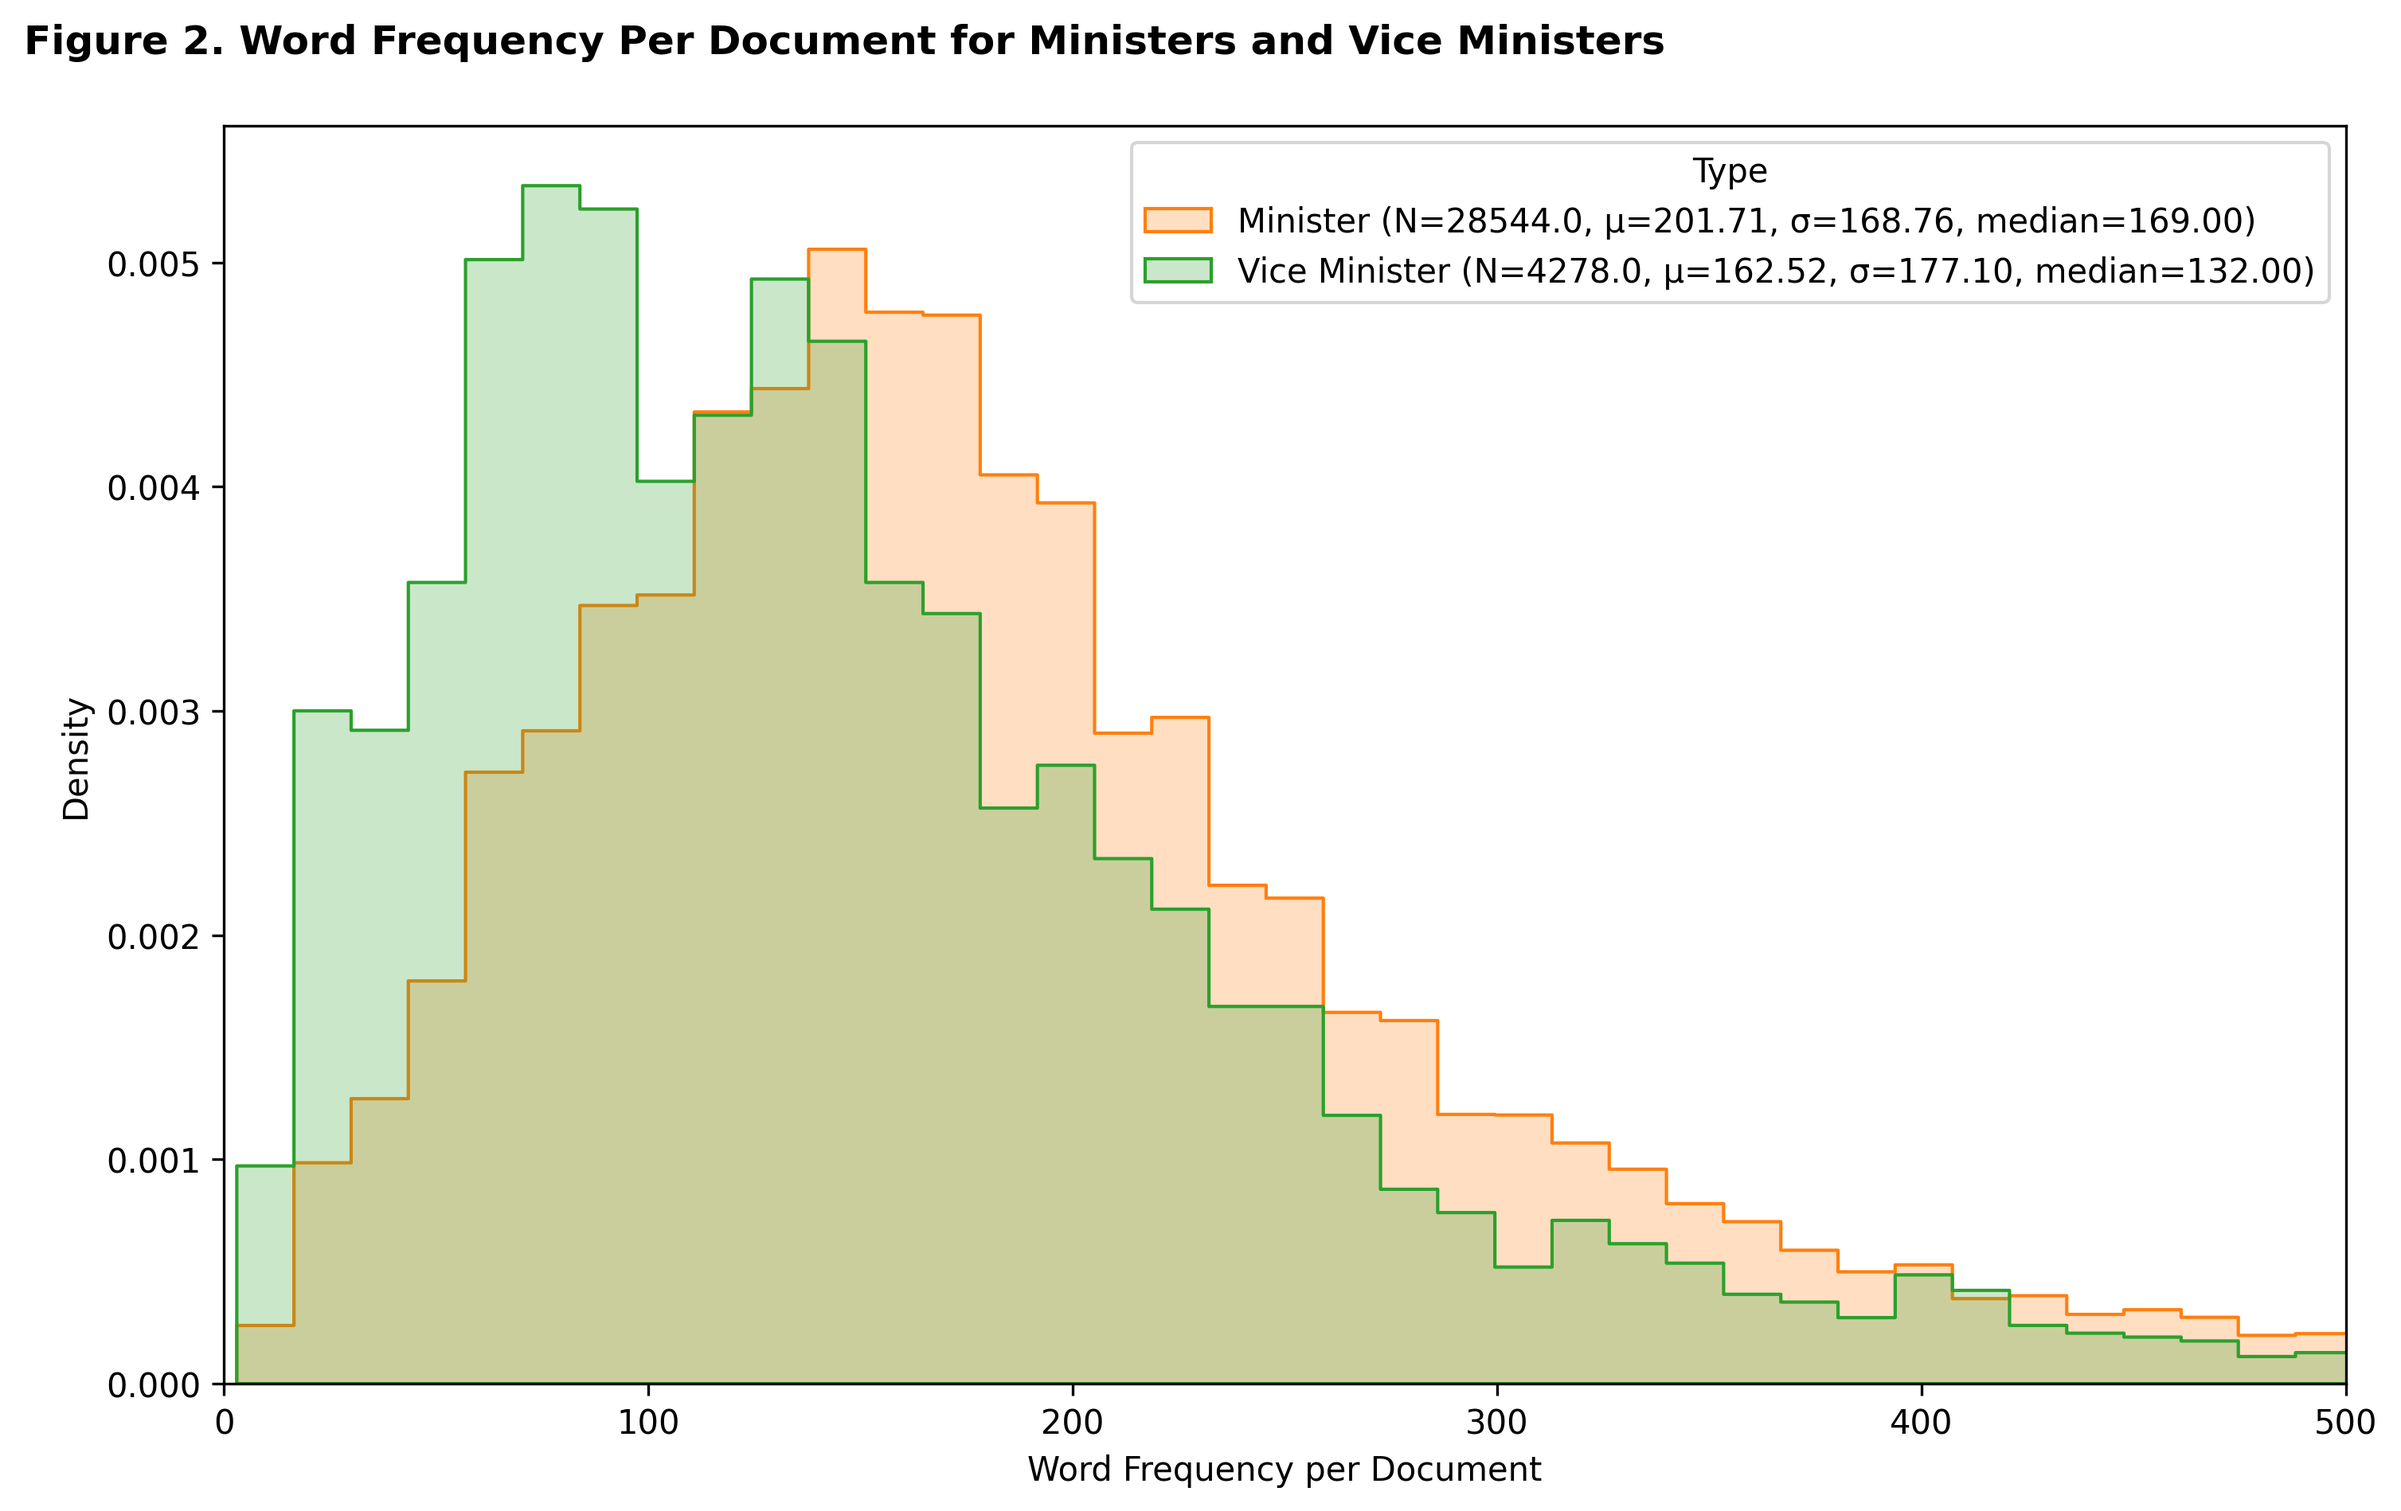
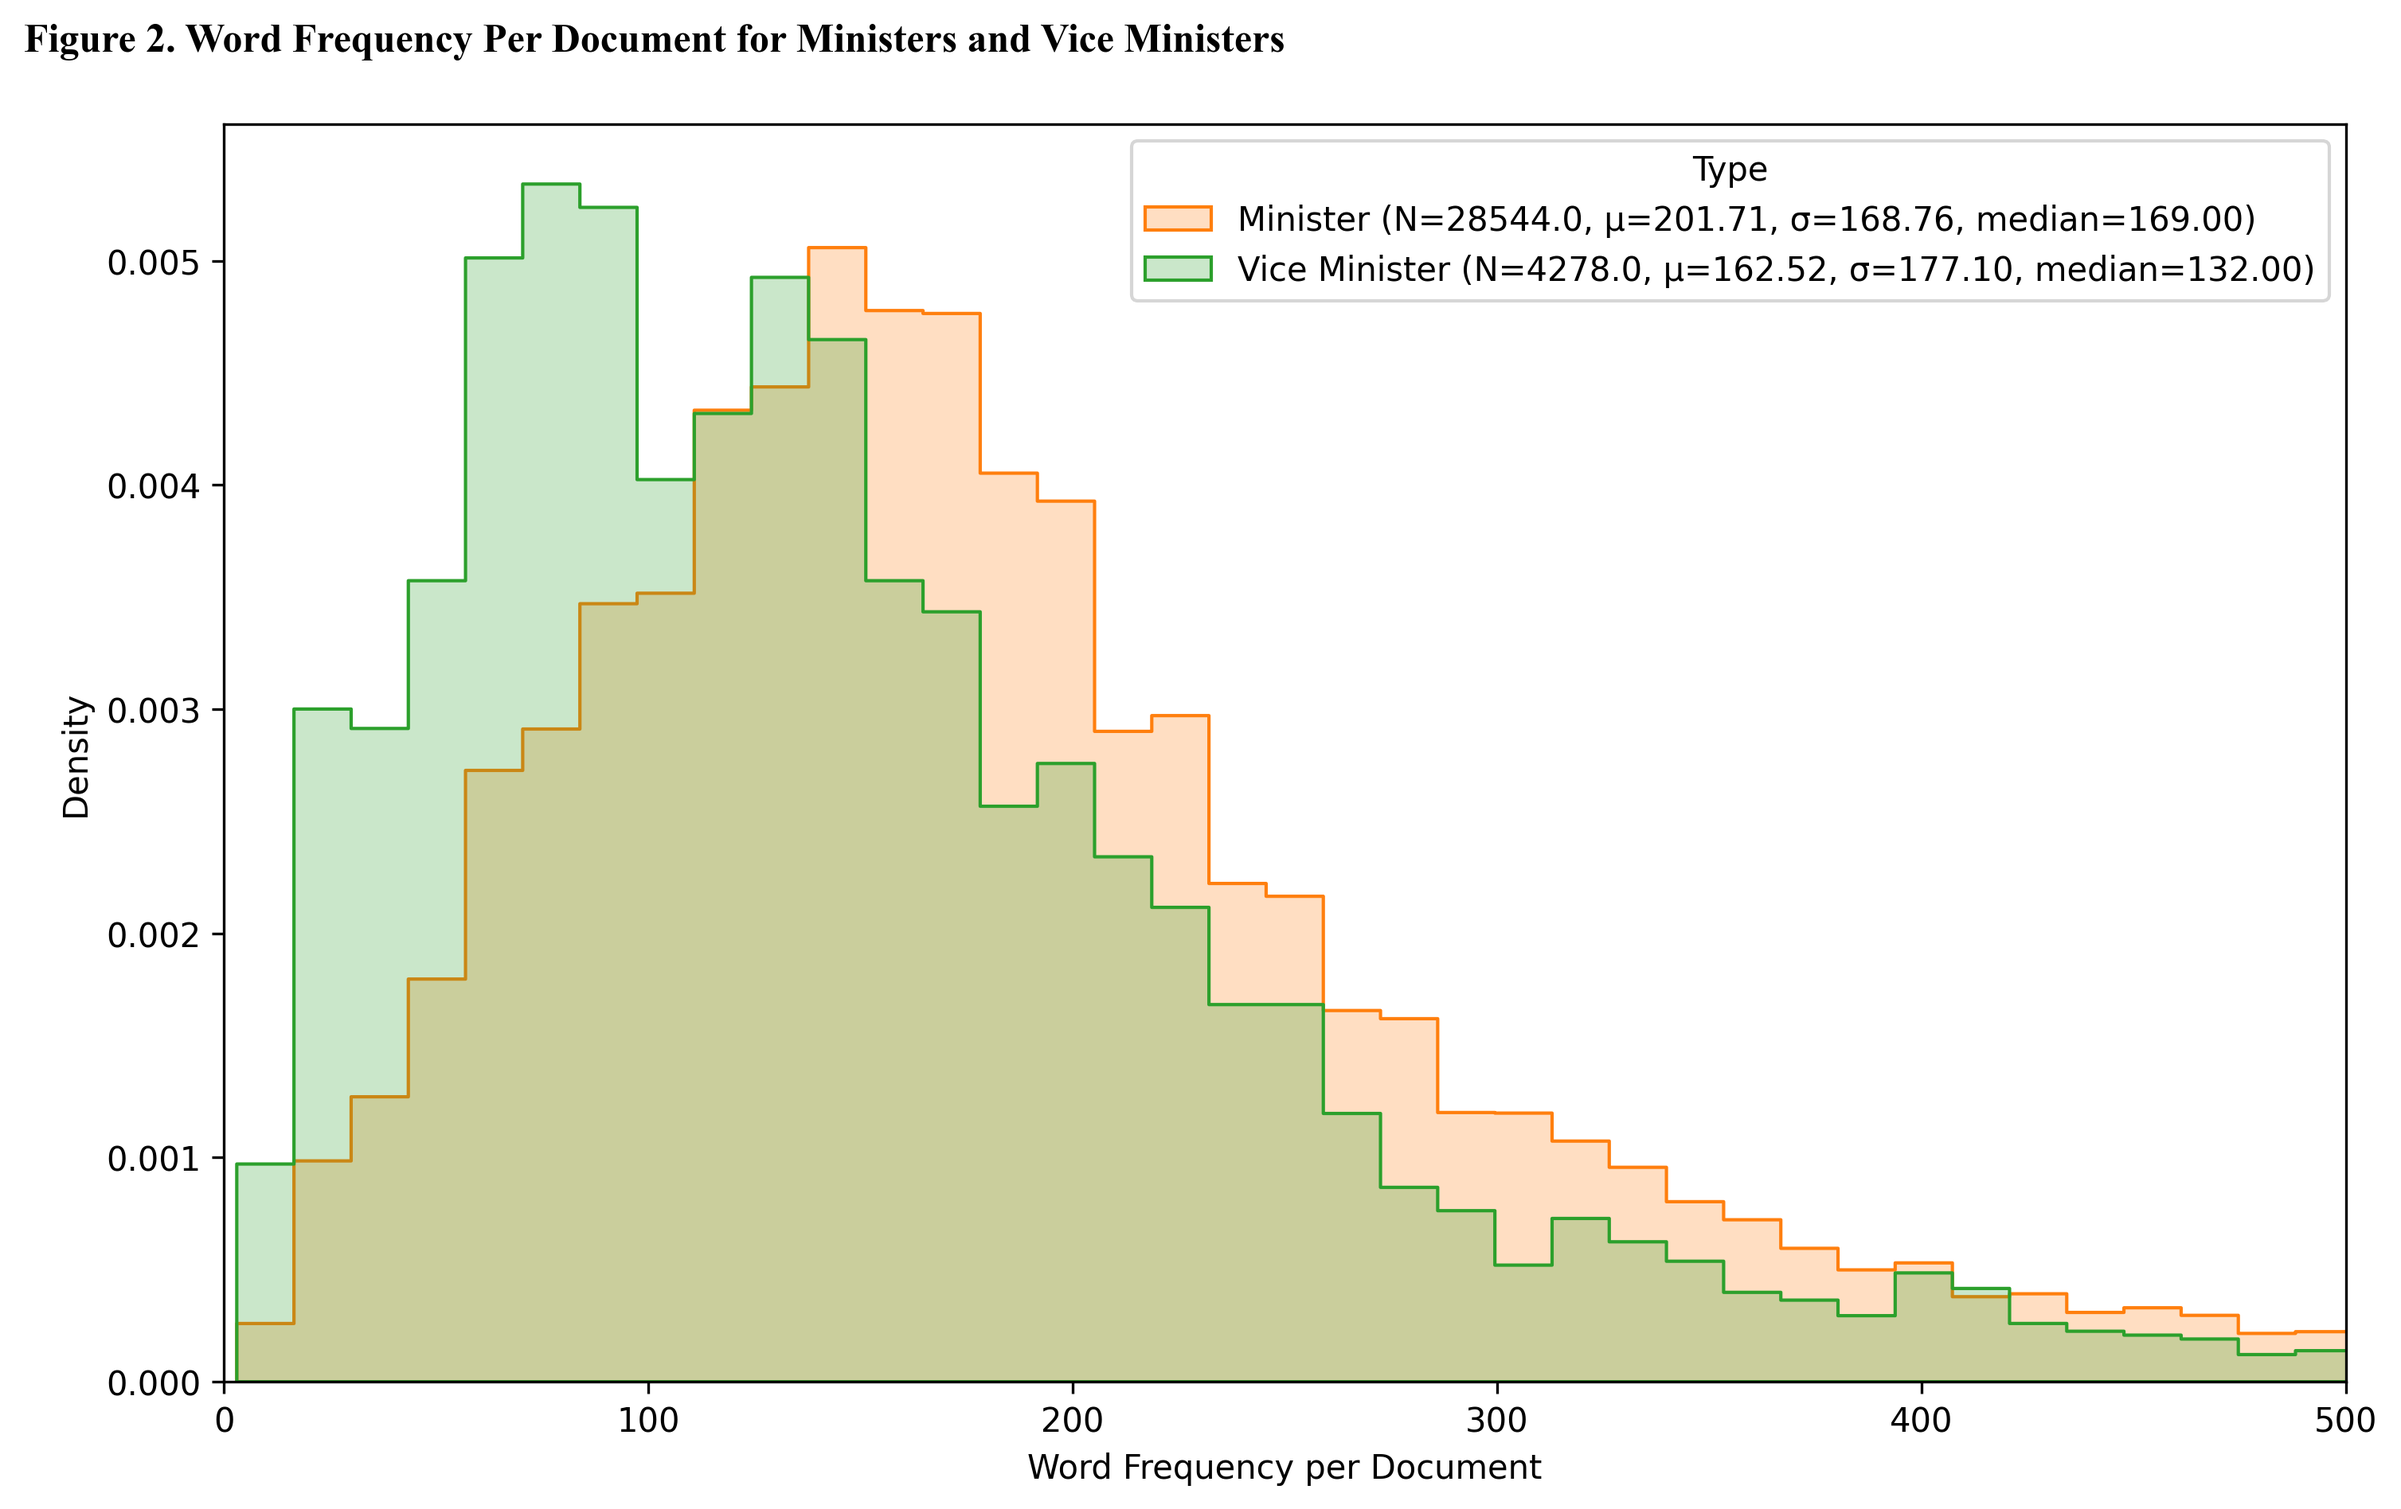
Set figure captions in manuscript typography
Titles in Times New Roman 12 pt bold; note labels in italic with note
text in Times New Roman 10 pt (Figures 5 and 6).

diff --git a/code/05_similarity_regressions.py b/code/05_similarity_regressions.py
@@ -206,12 +206,19 @@ fig = plt.gcf()
 fig.text(0.0, 1.02, textwrap.fill(
     "Figure 5. Cosine Similarity between Government Policy Commitment and "
     "Press Release Documents for Ministers and Vice Ministers, across "
-    "Ministries", 100), ha="left", va="bottom", fontsize=12, fontweight="bold")
-fig.text(0.0, -0.03, textwrap.fill(
-    "Notes: Estimation is based on the coefficients in Table 6. AFF = "
-    "agriculture, forestry, and food, DEF = Defense, EDU = education, GEF = "
-    "gender equality and family, HSW = health and social welfare, and MEF = "
-    "economy and finance.", 140), ha="left", va="top", fontsize=9)
+    "Ministries", 100), ha="left", va="bottom", fontsize=12, fontweight="bold",
+    family="Times New Roman")
+note_label = fig.text(0.0, -0.03, "Notes:", ha="left", va="top", fontsize=10,
+                      style="italic", family="Times New Roman")
+fig.canvas.draw()
+x_after = fig.transFigure.inverted().transform(
+    (note_label.get_window_extent().x1, 0))[0] + 0.004
+fig.text(x_after, -0.03, textwrap.fill(
+    "Estimation is based on the coefficients in Table 6. AFF = agriculture, "
+    "forestry, and food, DEF = Defense, EDU = education, GEF = gender "
+    "equality and family, HSW = health and social welfare, and MEF = economy "
+    "and finance.", 130), ha="left", va="top", fontsize=10,
+    family="Times New Roman")
 plt.savefig(FIG / "Figure5_cosine_similarity_by_ministry.png", dpi=300, bbox_inches="tight")
 plt.close()
 print(f"\nSaved {FIG / 'Figure5_cosine_similarity_by_ministry.png'}")

diff --git a/code/04_descriptive_analysis.py b/code/04_descriptive_analysis.py
@@ -30,13 +30,23 @@ import seaborn as sns
 from sklearn.feature_extraction.text import CountVectorizer, TfidfVectorizer
 
 
-def embed_caption(fig, title, note=None, wrap=100, note_wrap=140):
-    """Embed the manuscript caption as the figure title and note in the image."""
+def embed_caption(fig, title, note=None, wrap=100, note_wrap=130):
+    """Embed the manuscript caption as the figure title and note in the image.
+
+    Manuscript formatting: title in Times New Roman 12 pt bold; the note label
+    ("Note:"/"Notes:") in italic with the note text in Times New Roman 10 pt.
+    """
     fig.text(0.0, 1.02, textwrap.fill(title, wrap), ha="left", va="bottom",
-             fontsize=12, fontweight="bold")
+             fontsize=12, fontweight="bold", family="Times New Roman")
     if note:
-        fig.text(0.0, -0.03, textwrap.fill(note, note_wrap), ha="left", va="top",
-                 fontsize=9)
+        label, _, body = note.partition(":")
+        t1 = fig.text(0.0, -0.03, label + ":", ha="left", va="top",
+                      fontsize=10, style="italic", family="Times New Roman")
+        fig.canvas.draw()
+        x_after = fig.transFigure.inverted().transform(
+            (t1.get_window_extent().x1, 0))[0] + 0.004
+        fig.text(x_after, -0.03, textwrap.fill(body.strip(), note_wrap),
+                 ha="left", va="top", fontsize=10, family="Times New Roman")
 
 ROOT = Path(__file__).resolve().parents[1]
 DATA = ROOT / "data" / "analysis"

diff --git a/code/06_umap_figure.py b/code/06_umap_figure.py
@@ -89,12 +89,19 @@ g.add_legend(title="Type", legend_data=legend_data)
 
 g.figure.text(0.0, 1.01, textwrap.fill(
     "Figure 6. Policy Commitments and Press Release Documents in UMAP Space",
-    95), ha="left", va="bottom", fontsize=12, fontweight="bold")
-g.figure.text(0.0, -0.01, textwrap.fill(
-    "Note: AFF = agriculture, forestry, and food, DEF = Defense, EDU = "
-    "education, GEF = gender equality and family, HSW = health and social "
-    "welfare, and MEF = economy and finance.", 130), ha="left", va="top",
-    fontsize=9)
+    95), ha="left", va="bottom", fontsize=12, fontweight="bold",
+    family="Times New Roman")
+note_label = g.figure.text(0.0, -0.01, "Note:", ha="left", va="top",
+                           fontsize=10, style="italic",
+                           family="Times New Roman")
+g.figure.canvas.draw()
+x_after = g.figure.transFigure.inverted().transform(
+    (note_label.get_window_extent().x1, 0))[0] + 0.004
+g.figure.text(x_after, -0.01, textwrap.fill(
+    "AFF = agriculture, forestry, and food, DEF = Defense, EDU = education, "
+    "GEF = gender equality and family, HSW = health and social welfare, and "
+    "MEF = economy and finance.", 125), ha="left", va="top", fontsize=10,
+    family="Times New Roman")
 g.savefig(FIG / "Figure6_umap_space.png", dpi=300, bbox_inches="tight")
 plt.close("all")
 print("Saved", FIG / "Figure6_umap_space.png")
